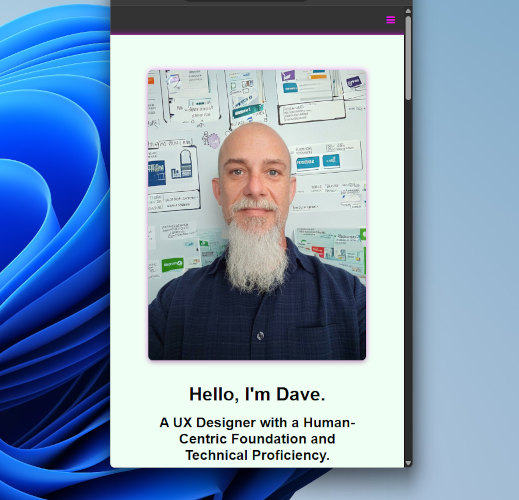
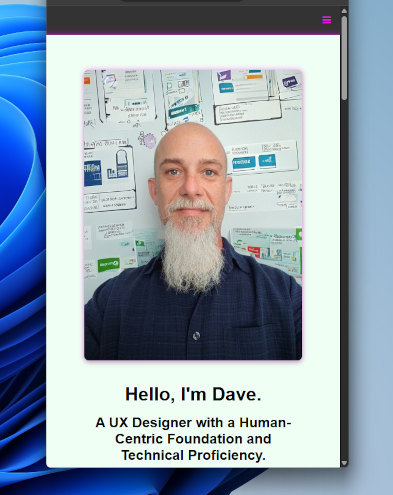
"FEAT: Finalized slideshow stability, applied responsive controls, and updated contact/social buttons."

diff --git a/css/stylesheet.css b/css/stylesheet.css
@@ -483,13 +483,18 @@ h2 {
 /* ================================================= */
 
 .slideshow {
-  max-width: 900px;
+  max-width: 900px; /* Maintains responsiveness */
   position: relative;
   margin: 0 auto;
+  /* Use the tallest image height for fixed container size */
+  height: 500px;
+  overflow: hidden;
 }
 
 .slideshow__slide {
+  /* No position: absolute, no z-index, no visibility rules */
   display: none;
+  opacity: 0;
   transition: opacity 0.6s ease-in-out;
 }
 
@@ -500,10 +505,12 @@ h2 {
 
 .slideshow__image {
   width: 100%;
-  height: auto;
+  /* CRITICAL FIX: Ensure image fills the fixed container height */
+  height: 500px;
+  /* Use 'cover' for clean, consistent previews (will crop the top/bottom if image is too wide) */
+  object-fit: contain;
   display: block;
   border-radius: 8px;
-  /* Applies subtle shadow and the brand-specific violet accent glow */
   box-shadow: var(--shadow-subtle), var(--shadow-violet-glow-subtle);
 }
 
@@ -513,6 +520,7 @@ h2 {
   cursor: pointer;
   position: absolute;
   top: 50%;
+  left: 50%;
   transform: translateY(-50%);
   width: auto;
   padding: 1rem;
@@ -522,16 +530,18 @@ h2 {
   transition: 0.3s ease;
   user-select: none;
   background-color: var(--color-overlay-medium);
-  z-index: 10;
+  z-index: 100;
 }
 
+/* 1. Anchors the RIGHT button to the center of the page, then pushes it out */
 .slideshow__control--next {
-  right: -50px;
+  margin-left: 270px;
   border-radius: 0 3px 3px 0;
 }
 
+/* 2. Anchors the LEFT button to the center of the page, then pushes it out */
 .slideshow__control--prev {
-  left: -50px;
+  margin-left: -312px;
   border-radius: 3px 0 0 3px;
 }
 
@@ -545,6 +555,7 @@ h2 {
 #slideshow-container {
   flex-direction: column;
   align-items: center;
+  position: relative;
 }
 
 .slideshow-title-box {
@@ -803,16 +814,22 @@ input[type="submit"]:hover {
 
   .slideshow__control--prev,
   .slideshow__control--next {
+    /* CRITICAL FIX: These lines wipe out conflicting desktop rules */
+    left: auto; /* Wipes out the desktop's left: 50% */
+    right: auto; /* Wipes out potential right conflicts */
+    margin-left: 0; /* Wipes out the large desktop pixel offsets (-312px, 270px) */
+    margin-top: -120px; /* Centers button vertically (Half of estimated button height) */
+    /* Mobile-specific padding/sizing */
     padding: 0.5rem 0.75rem;
   }
 
   .slideshow__control--prev {
-    left: 0;
+    left: 0.25rem; /* Pushes button to the left edge of the responsive container */
     border-radius: 0 3px 3px 0;
   }
 
   .slideshow__control--next {
-    right: 0;
+    right: 0.25rem; /* Pushes button to the right edge of the responsive container */
     border-radius: 3px 0 0 3px;
   }
 
@@ -935,6 +952,10 @@ input[type="submit"]:hover {
 /* --- Desktop (min-width: 769px) --- */
 /* UPDATED: Changed min-width from 768px to 769px to resolve the conflict at the 768px breakpoint. */
 @media screen and (min-width: 769px) {
+  .slideshow__control--prev,
+  .slideshow__control--next {
+    transform: translateY(-160%);
+  }
   /* On desktop, the hamburger icon is not needed */
   .navbar__toggle {
     display: none;

diff --git a/about.html b/about.html
@@ -63,6 +63,13 @@
             class="navbar__link"
             ><i class="fa fa-fw fa-github"></i> GitHub</a
           >
+          <a
+            href="https://www.linkedin.com/in/david-villers-6082963b/"
+            target="_blank"
+            rel="noopener noreferrer"
+            class="navbar__link"
+            ><i class="fa fa-fw fa-linkedin"></i> LinkedIn</a
+          >
           <a class="navbar__link--contact-trigger navbar__link" href="#"
             ><i class="fa fa-fw fa-hand-o-right"></i> Contact</a
           >
@@ -169,9 +176,23 @@
           <p>
             I am actively seeking remote UX Designer opportunities where I can
             apply my unique blend of human insight, design thinking, and
-            technical proficiency to create impactful digital solutions. **Let's
-            connect!**
+            technical proficiency to create impactful digital solutions.
           </p>
+          <h3>Let's connect:</h3>
+          <div class="button-group">
+            <a
+              class="navbar__link--contact-trigger button button--primary"
+              href="#"
+              ><i class="fa fa-fw fa-hand-o-right"></i> Contact</a
+            >
+            <a
+              href="https://www.linkedin.com/in/david-villers-6082963b/"
+              target="_blank"
+              rel="noopener noreferrer"
+              class="button button--secondary"
+              ><i class="fa fa-linkedin"></i> LinkedIn</a
+            >
+          </div>
         </div>
       </section>
     </main>
@@ -194,6 +215,13 @@
           rel="noopener noreferrer"
           class="navbar__link"
           ><i class="fa fa-fw fa-github"></i> GitHub</a
+        >
+        <a
+          href="https://www.linkedin.com/in/david-villers-6082963b/"
+          target="_blank"
+          rel="noopener noreferrer"
+          class="navbar__link"
+          ><i class="fa fa-fw fa-linkedin"></i> LinkedIn</a
         >
         <a class="navbar__link--contact-trigger navbar__link" href="#"
           ><i class="fa fa-fw fa-hand-o-right"></i> Contact</a

diff --git a/js/script.js b/js/script.js
@@ -57,16 +57,34 @@ document.addEventListener("DOMContentLoaded", (event) => {
         slideIndex = slides.length;
       }
       const totalSlides = slides.length;
+
+      // 1. Loop to HIDE all slides (by removing the 'active' class)
       for (i = 0; i < slides.length; i++) {
-        slides[i].style.display = "none";
+        // CRITICAL FIX: Remove 'active' class (CSS sets opacity: 0, z-index: 0)
+        slides[i].classList.remove("active");
+
+        // Remove old style.display line if it exists
+        // slides[i].style.display = "none";
+
         slides[i].removeAttribute("aria-current");
       }
+
       for (i = 0; i < dots.length; i++) {
         dots[i].className = dots[i].className.replace(" active", "");
       }
+
       const currentSlide = slides[slideIndex - 1];
-      currentSlide.style.display = "block";
+
+      // 2. ACTIVATE the current slide (by adding the 'active' class)
+      currentSlide.classList.add("active");
+
+      // Remove old style.display line if it exists
+      // currentSlide.style.display = "block";
+
+      // ACTIVATE the dot
       dots[slideIndex - 1].className += " active";
+
+      // Update ARIA attributes
       currentSlide.setAttribute("aria-current", "true");
       currentSlide.setAttribute(
         "aria-label",
@@ -74,11 +92,13 @@ document.addEventListener("DOMContentLoaded", (event) => {
           "data-title"
         )}`
       );
+
       if (announcer) {
         announcer.textContent = `${currentSlide.getAttribute(
           "data-title"
         )}, slide ${slideIndex} of ${totalSlides}`;
       }
+
       if (slideTitleElement && slideTitleLink) {
         const currentTitle = currentSlide.getAttribute("data-title");
         const currentImage = currentSlide.querySelector(".slideshow__image");

diff --git a/projects.html b/projects.html
@@ -56,6 +56,13 @@
             class="navbar__link--bracket-right navbar__link"
             ><i class="fa fa-fw fa-github"></i> GitHub</a
           >
+          <a
+            href="https://www.linkedin.com/in/david-villers-6082963b/"
+            target="_blank"
+            rel="noopener noreferrer"
+            class="navbar__link"
+            ><i class="fa fa-fw fa-linkedin"></i> LinkedIn</a
+          >
           <a class="navbar__link--contact-trigger navbar__link" href="#"
             ><i class="fa fa-fw fa-hand-o-right"></i> Contact</a
           >
@@ -128,7 +135,8 @@
               alt="Screenshot of API Fun Center data integration project."
             />
           </div>
-
+        </div>
+        <div>
           <a
             class="slideshow__control--prev"
             id="prev-slide"
@@ -405,6 +413,13 @@
           rel="noopener noreferrer"
           class="navbar__link"
           ><i class="fa fa-fw fa-github"></i> GitHub</a
+        >
+        <a
+          href="https://www.linkedin.com/in/david-villers-6082963b/"
+          target="_blank"
+          rel="noopener noreferrer"
+          class="navbar__link"
+          ><i class="fa fa-fw fa-linkedin"></i> LinkedIn</a
         >
         <a class="navbar__link--contact-trigger navbar__link" href="#"
           ><i class="fa fa-fw fa-hand-o-right"></i> Contact</a

diff --git a/index.html b/index.html
@@ -66,6 +66,14 @@
             class="navbar__link"
             ><i class="fa fa-fw fa-github"></i> GitHub</a
           >
+          <a
+            href="https://www.linkedin.com/in/david-villers-6082963b/"
+            target="_blank"
+            rel="noopener noreferrer"
+            class="navbar__link"
+            ><i class="fa fa-fw fa-linkedin"></i> LinkedIn</a
+          >
+
           <a class="navbar__link--contact-trigger navbar__link" href="#"
             ><i class="fa fa-fw fa-hand-o-right"></i> Contact</a
           >
@@ -223,6 +231,14 @@
           class="navbar__link"
           ><i class="fa fa-fw fa-github"></i> GitHub</a
         >
+        <a
+          href="https://www.linkedin.com/in/david-villers-6082963b/"
+          target="_blank"
+          rel="noopener noreferrer"
+          class="navbar__link"
+          ><i class="fa fa-fw fa-linkedin"></i> LinkedIn</a
+        >
+
         <a class="navbar__link--contact-trigger navbar__link" href="#"
           ><i class="fa fa-fw fa-hand-o-right"></i> Contact</a
         >
